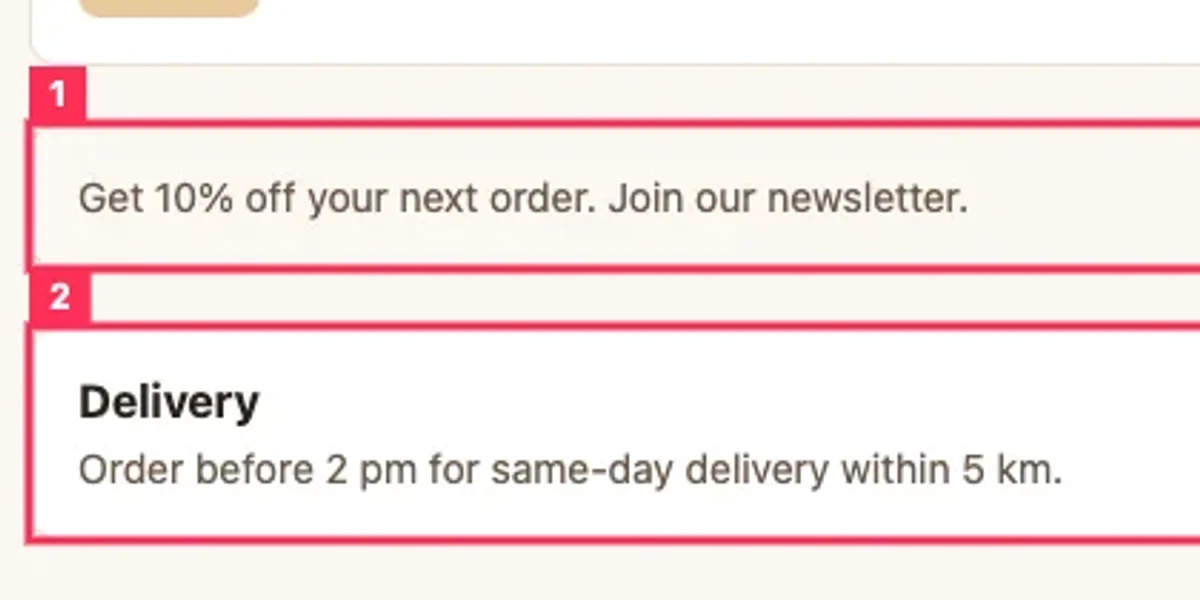
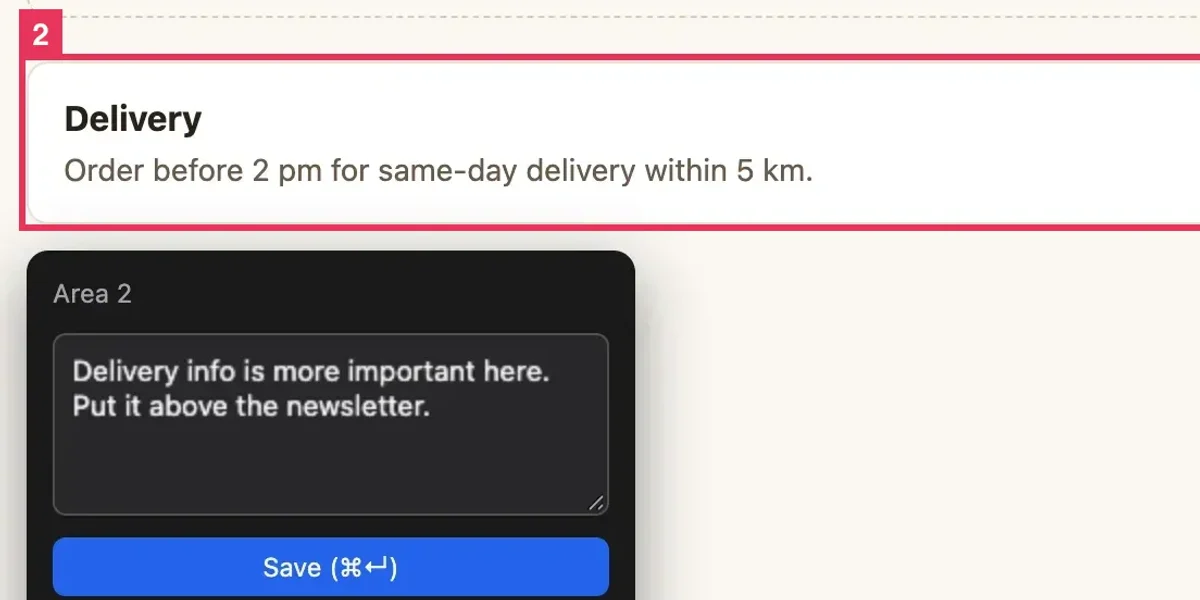
feat(open-source): qa-annotator crop shows the comment box at a marked area
The card should show the moment that sells the extension: typing a note for a marked area, not only the numbered marks. Cropped from the overlay screenshot with the extension's area mark drawn in.

diff --git a/src/constants/open-source.ts b/src/constants/open-source.ts
@@ -1,9 +1,14 @@
-import { Chrome, GitPullRequest, Github, MousePointerClick } from "lucide-react";
+import {
+  Chrome,
+  GitPullRequest,
+  Github,
+  MousePointerClick,
+} from "lucide-react";
 import { OpenSourceProject } from "@/types";
 import { PROJECT_BRANDS } from "./brands";
 import { OPEN_SOURCE_URLS } from "./contact";
 import prReviewerImg from "/public/images/projects/kadry/claude-pr-reviewer.webp";
-import qaAnnotatorAreasImg from "/public/images/projects/kadry/qa-annotator.webp";
+import qaAnnotatorCommentImg from "/public/images/projects/kadry/qa-annotator.webp";
 
 export const OPEN_SOURCE_PROJECTS: OpenSourceProject[] = [
   {
@@ -24,8 +29,7 @@ export const OPEN_SOURCE_PROJECTS: OpenSourceProject[] = [
     ],
     href: OPEN_SOURCE_URLS.claudePrReviewer,
     image: prReviewerImg,
-    imageAlt:
-      "An inline Claude review comment on a pull request diff",
+    imageAlt: "An inline Claude review comment on a pull request diff",
   },
   {
     name: "qa-annotator",
@@ -43,7 +47,8 @@ export const OPEN_SOURCE_PROJECTS: OpenSourceProject[] = [
       { kind: "fact", label: "Chrome extension", icon: Chrome },
     ],
     href: OPEN_SOURCE_URLS.qaAnnotator,
-    image: qaAnnotatorAreasImg,
-    imageAlt: "Two numbered areas marked by the extension on a demo page",
+    image: qaAnnotatorCommentImg,
+    imageAlt:
+      "The extension comment box with a note typed next to a marked area on a demo page",
   },
 ];
